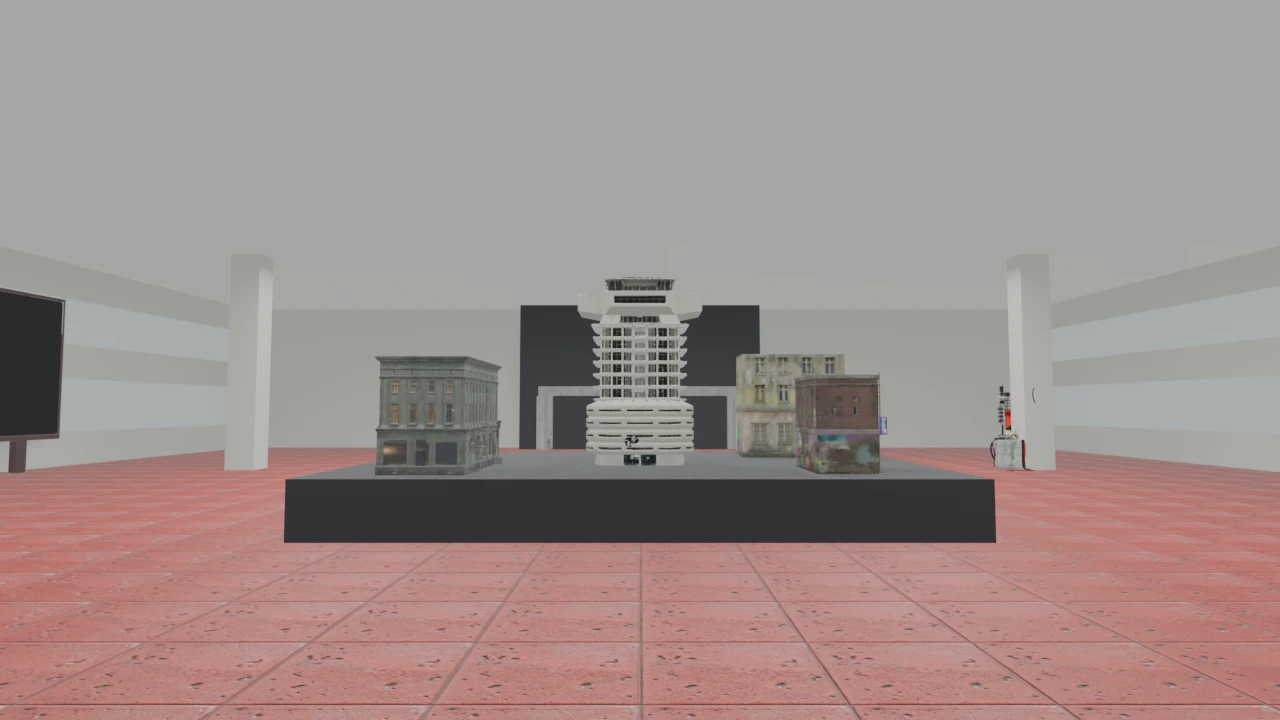
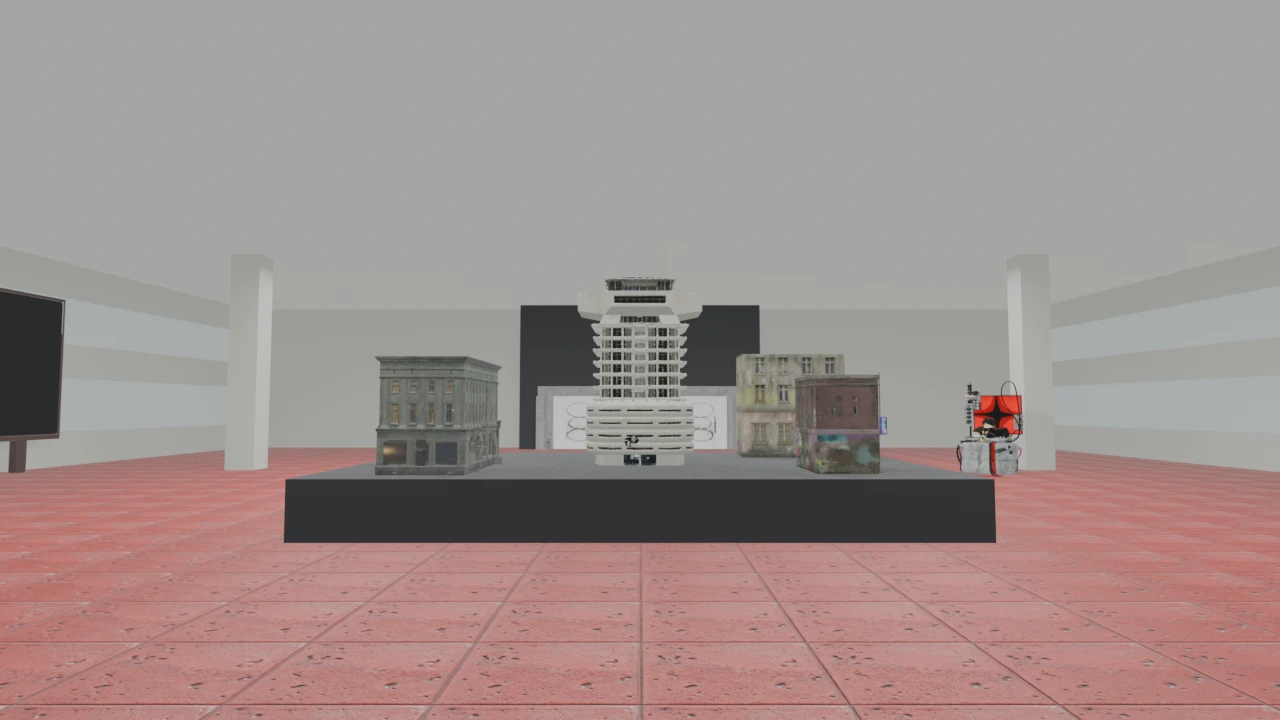
fix(inner): 1F DJ 부스를 기둥에서 떼고(8.8, 7.2) 엘리베이터 문을 코어 앞(y 19.3)으로
- DJ 부스 bbox 가 기둥 IN_column_3 와 겹쳐 투어 2 시점에서 절반이 가려지던 문제 — 전시 위치 · 투어 시선 목표도 함께 이동
- door_1 문짝 앞면이 코어 앞면(y 19.5) 뒤에 묻혀 보이지 않던 문제

Changed region(s): [[0.75, 0.5194, 0.8125, 0.6722], [0.5312, 0.55, 0.5938, 0.6417], [0.4062, 0.55, 0.4688, 0.6417]]

diff --git a/tools/nowhere/blender/inner_build.py b/tools/nowhere/blender/inner_build.py
@@ -158,12 +158,12 @@ FLOOR_1 = {
     'elevator': ((0.0, 19.0, 0.0), 2.5),
     'exhibits': [
         ('city_model', '성수 도시 모형', 'HAUS NOWHERE 미니어처와 성수의 그래피티 건물들', (0.0, 0.0, 1.5)),
-        ('dj', 'DJ 부스', '로비의 사운드 설치물', (10.5, 9.0, 1.2)),
+        ('dj', 'DJ 부스', '로비의 사운드 설치물', (8.8, 7.2, 1.2)),
         ('display', '디스플레이 월', 'HAUS NOWHERE SEOUL · 현재 시각 · 기상', (-16.4, 6.0, 2.4)),
     ],
     'tour': [
         ((6.0, -8.0, 2.2), (0.0, 0.0, 1.8), '성수 도시 모형 — HAUS NOWHERE 와 성수 골목', 5),
-        ((4.0, 3.0, 1.8), (10.5, 9.0, 1.2), 'DJ 부스 — 로비의 사운드 설치물', 4),
+        ((4.0, 3.0, 1.8), (8.8, 7.2, 1.2), 'DJ 부스 — 로비의 사운드 설치물', 4),
         ((-8.0, 2.0, 2.4), (-16.4, 6.0, 2.4), '디스플레이 월', 4),
     ],
 }
@@ -204,10 +204,10 @@ def build_floor_1(c, M):
     import_prop('etc/building_1.glb', 'EX_city_b1', c, (-2.9, -1.2, P), height=1.6, rz=-90)
     import_prop('etc/building_2.glb', 'EX_city_b2', c, (2.9, -1.5, P), height=1.4, rz=90)
     import_prop('etc/building_3.glb', 'EX_city_b3', c, (2.8, 1.7, P), height=1.9, rz=180)
-    import_prop('main/DJ.glb', 'EX_dj', c, (10.5, 9.0, 0.0), height=2.4, rz=-45)
+    import_prop('main/DJ.glb', 'EX_dj', c, (8.8, 7.2, 0.0), height=2.4, rz=-45)
     import_prop('main/display.glb', 'EX_display', c, (-16.4, 6.0, 0.0), width=6.0, rz=90)
-    import_prop('main/door_1.glb', 'EX_elevator_l', c, (-2.5, 19.45, 0.0), height=2.6)
-    import_prop('main/door_1.glb', 'EX_elevator_r', c, (2.5, 19.45, 0.0), height=2.6)
+    import_prop('main/door_1.glb', 'EX_elevator_l', c, (-2.5, 19.3, 0.0), height=2.6)
+    import_prop('main/door_1.glb', 'EX_elevator_r', c, (2.5, 19.3, 0.0), height=2.6)
 
 
 def floor_json(F):
